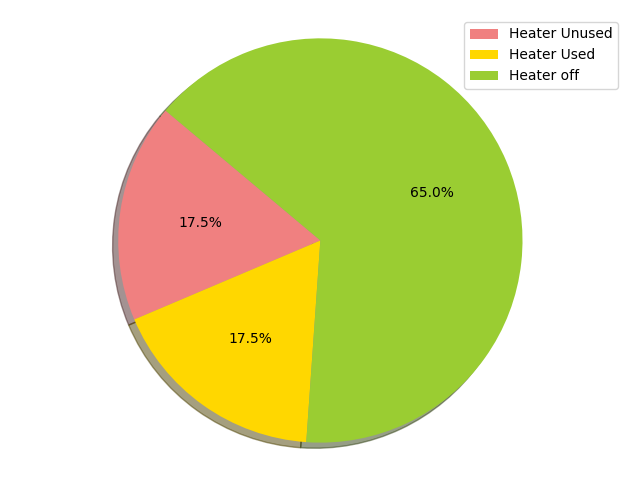
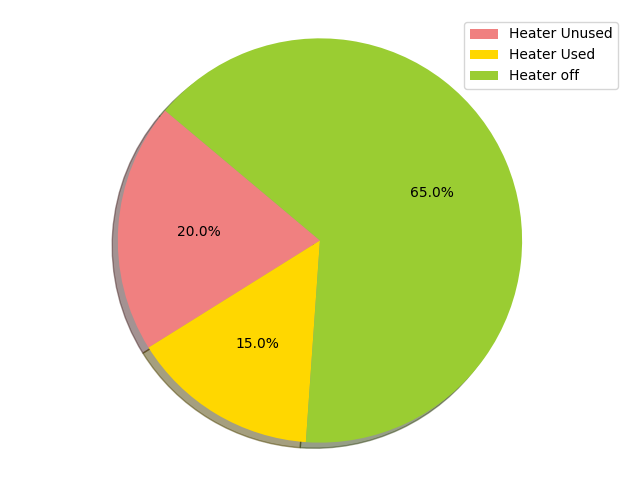
Enable update on refresh
No browser caching, graphgen on reload

diff --git a/app/graphgen.py b/app/graphgen.py
@@ -1,90 +1,97 @@
 import matplotlib.pyplot as plt
 import boto3
+import os.path
 
-bucket_name = "aamanrebellohack"
-s3_file_path = "readings.txt"
-save_as = "data.txt"
+def load_and_plot(data_file_path, file_last_modified):
+    bucket_name = "aamanrebellohack"
+    s3_file_path = "readings.txt"
+    save_as = data_file_path
 
-# Downloads readings.txt from s3 bucket.
-try:
-    s3 = boto3.client('s3')
-    s3.download_file(bucket_name , s3_file_path, save_as)
-except:
-    print('Unable to find file: ' + s3_file_path)
+    # Downloads readings.txt from s3 bucket.
+    try:
+        s3 = boto3.client('s3')
+        s3.download_file(bucket_name , s3_file_path, save_as)
+    except:
+        print('Unable to find file: ' + s3_file_path)
 
-f = open("data.txt", "r")
-lines = f.readlines()
-f.close()
-# For each array, index 0: appliance unused but on, index 1: appliance used, index 2: appliance off.
-light_sizes = [0, 0, 0]
-heater_sizes = [0, 0, 0]
-ac_sizes = [0, 0, 0]
-# Perform analyses to find how much time each appliance was used, unused or off.
-for line in lines:
-    # Indicates nobody is in the room if line[0] == 0
-    if line[0] == "0":
-        # Light is on
-        if line[2] == "1":
-            light_sizes[0] = light_sizes[0] + 1
-        # Light is off
-        else:
-            light_sizes[2] = light_sizes[2] + 1
-        # Heater is on
-        if line[4] == "1":
-            heater_sizes[0] = heater_sizes[0] + 1
-        # Heater is off
-        else:
-            heater_sizes[2] = heater_sizes[2] + 1
-        # AC is on
-        if line[6] == "1":
-            ac_sizes[0] = ac_sizes[0] + 1
-        # AC is off
-        else:
-            ac_sizes[2] = ac_sizes[2] + 1
-    # Somebody is in the room
-    else:
-        if line[2] == "1":
-            light_sizes[1] = light_sizes[1] + 1
-        else:
-            light_sizes[2] = light_sizes[2] + 1
+    # Check if the data file has been modified before plotting
+    timestamp = os.path.getmtime(data_file_path)
+    if timestamp != file_last_modified:
+        f = open(data_file_path, "r")
+        lines = f.readlines()
+        f.close()
+        # For each array, index 0: appliance unused but on, index 1: appliance used, index 2: appliance off.
+        light_sizes = [0, 0, 0]
+        heater_sizes = [0, 0, 0]
+        ac_sizes = [0, 0, 0]
+        # Perform analyses to find how much time each appliance was used, unused or off.
+        for line in lines:
+            # Indicates nobody is in the room if line[0] == 0
+            if line[0] == "0":
+                # Light is on
+                if line[2] == "1":
+                    light_sizes[0] = light_sizes[0] + 1
+                # Light is off
+                else:
+                    light_sizes[2] = light_sizes[2] + 1
+                # Heater is on
+                if line[4] == "1":
+                    heater_sizes[0] = heater_sizes[0] + 1
+                # Heater is off
+                else:
+                    heater_sizes[2] = heater_sizes[2] + 1
+                # AC is on
+                if line[6] == "1":
+                    ac_sizes[0] = ac_sizes[0] + 1
+                # AC is off
+                else:
+                    ac_sizes[2] = ac_sizes[2] + 1
+            # Somebody is in the room
+            else:
+                if line[2] == "1":
+                    light_sizes[1] = light_sizes[1] + 1
+                else:
+                    light_sizes[2] = light_sizes[2] + 1
 
-        if line[4] == "1":
-            heater_sizes[1] = heater_sizes[1] + 1
-        else:
-            heater_sizes[2] = heater_sizes[2] + 1
+                if line[4] == "1":
+                    heater_sizes[1] = heater_sizes[1] + 1
+                else:
+                    heater_sizes[2] = heater_sizes[2] + 1
 
-        if line[6] == "1":
-            ac_sizes[1] = ac_sizes[1] + 1
-        else:
-            ac_sizes[2] = ac_sizes[2] + 1
+                if line[6] == "1":
+                    ac_sizes[1] = ac_sizes[1] + 1
+                else:
+                    ac_sizes[2] = ac_sizes[2] + 1
 
 
 
-light_labels = ['Light Unused', 'Light Used', 'Lights off']
-heater_labels = ['Heater Unused', 'Heater Used', 'Heater off']
-ac_labels = ['AC Unused', 'AC Used', 'AC off']
+        light_labels = ['Light Unused', 'Light Used', 'Lights off']
+        heater_labels = ['Heater Unused', 'Heater Used', 'Heater off']
+        ac_labels = ['AC Unused', 'AC Used', 'AC off']
 
-colors = ['lightcoral', 'gold', 'yellowgreen']
+        colors = ['lightcoral', 'gold', 'yellowgreen']
 
-# Generate plots as pngs
+        # Generate plots as pngs
 
-plt.pie(light_sizes, colors=colors, shadow=True, autopct='%1.1f%%', startangle=140)
-plt.legend(light_labels, loc="best")
-plt.axis('equal')
-plt.tight_layout()
-plt.savefig('static/lightusage.png')
-plt.clf()
+        plt.pie(light_sizes, colors=colors, shadow=True, autopct='%1.1f%%', startangle=140)
+        plt.legend(light_labels, loc="best")
+        plt.axis('equal')
+        plt.tight_layout()
+        plt.savefig('static/lightusage.png')
+        plt.clf()
 
-plt.pie(heater_sizes, colors=colors, shadow=True, autopct='%1.1f%%', startangle=140)
-plt.legend(heater_labels, loc="best")
-plt.axis('equal')
-plt.tight_layout()
-plt.savefig('static/heaterusage.png')
-plt.clf()
+        plt.pie(heater_sizes, colors=colors, shadow=True, autopct='%1.1f%%', startangle=140)
+        plt.legend(heater_labels, loc="best")
+        plt.axis('equal')
+        plt.tight_layout()
+        plt.savefig('static/heaterusage.png')
+        plt.clf()
 
-plt.pie(ac_sizes, colors=colors, shadow=True, autopct='%1.1f%%', startangle=140)
-plt.legend(ac_labels, loc="best")
-plt.axis('equal')
-plt.tight_layout()
-plt.savefig('static/acusage.png')
-plt.close()
+        plt.pie(ac_sizes, colors=colors, shadow=True, autopct='%1.1f%%', startangle=140)
+        plt.legend(ac_labels, loc="best")
+        plt.axis('equal')
+        plt.tight_layout()
+        plt.savefig('static/acusage.png')
+        plt.close()
+    #Return modification time whether changed or not
+    return timestamp

diff --git a/app/details.py b/app/details.py
@@ -1,17 +1,20 @@
 from flask import Flask, render_template
 import matplotlib.pyplot as plt
+from graphgen import load_and_plot
 
 # Responsible for running web app and rendering usage text stats as text if required.
 
 app = Flask(__name__)
-
-
+filepath = "data.txt"
+DATA_FILE_LAST_MODIFIED = 0.0
 
 # This URL has textual usage details shown along with pie graphs.
 @app.route('/showdetails')
 def show():
+    global DATA_FILE_LAST_MODIFIED
+    DATA_FILE_LAST_MODIFIED = load_and_plot(filepath, DATA_FILE_LAST_MODIFIED)
     # open data file for analysis.
-    f = open("data.txt", "r")
+    f = open(filepath, "r")
     # store lines in file into list
     lines = f.readlines()
     # close file
@@ -69,5 +72,14 @@ def show():
 
     return render_template('showdeets.html', Time=time, Ltime=ltime, Htime=htime, ACtime=actime, A_U_T=avg_user_time, Lcount=lcount, LEne=lpc, HEne=htc, ACEne=acpc)
 
+@app.after_request
+def add_header(r):
+    r.headers["Cache-Control"] = "no-cache, no-store, must-revalidate"
+    r.headers["Pragma"] = "no-cache"
+    r.headers["Expires"] = "0"
+    r.headers['Cache-Control'] = 'public, max-age=0'
+    return r
+
 if __name__ == '__main__':
    app.run(port = '6007', debug = True)
+   app.config['SEND_FILE_MAX_AGE_DEFAULT'] = 0
